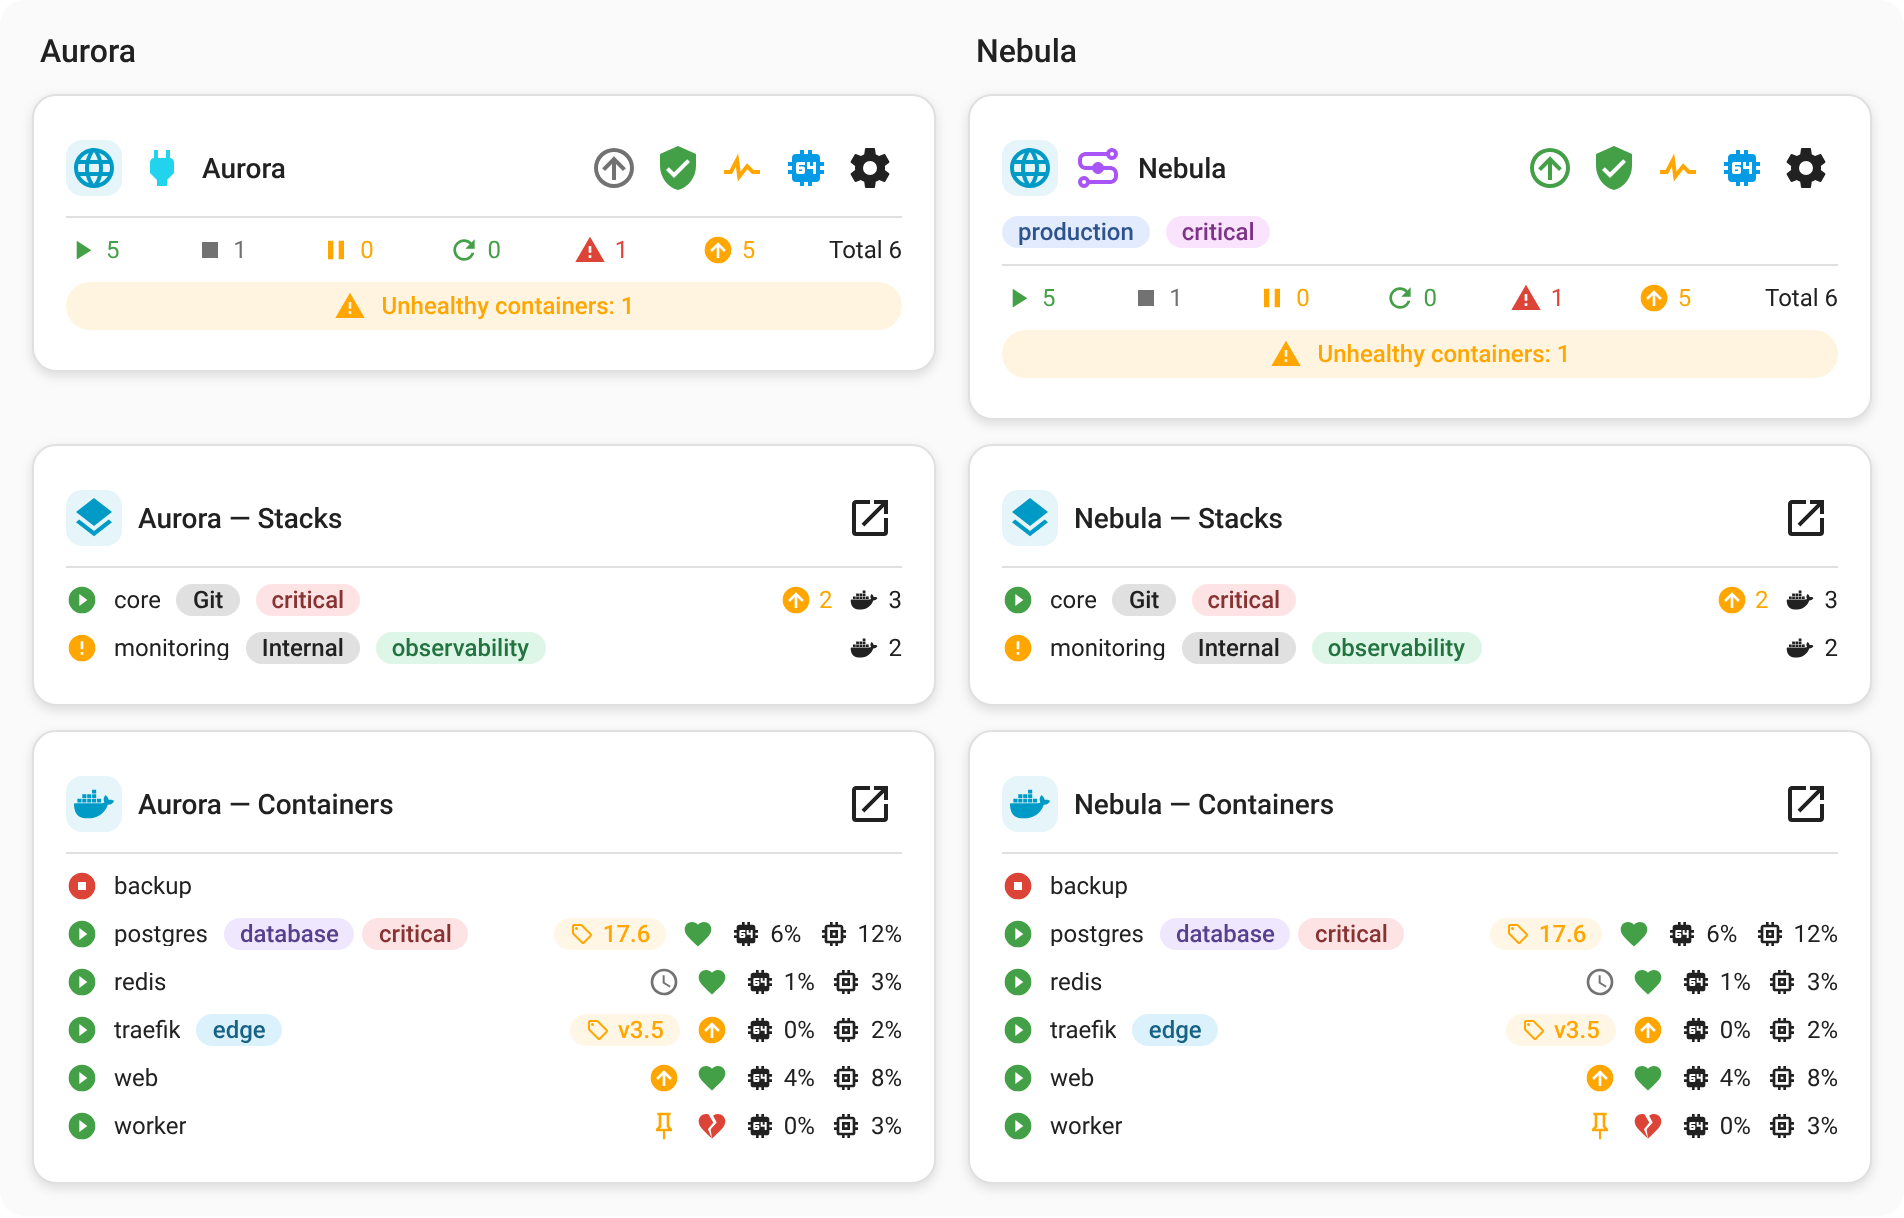
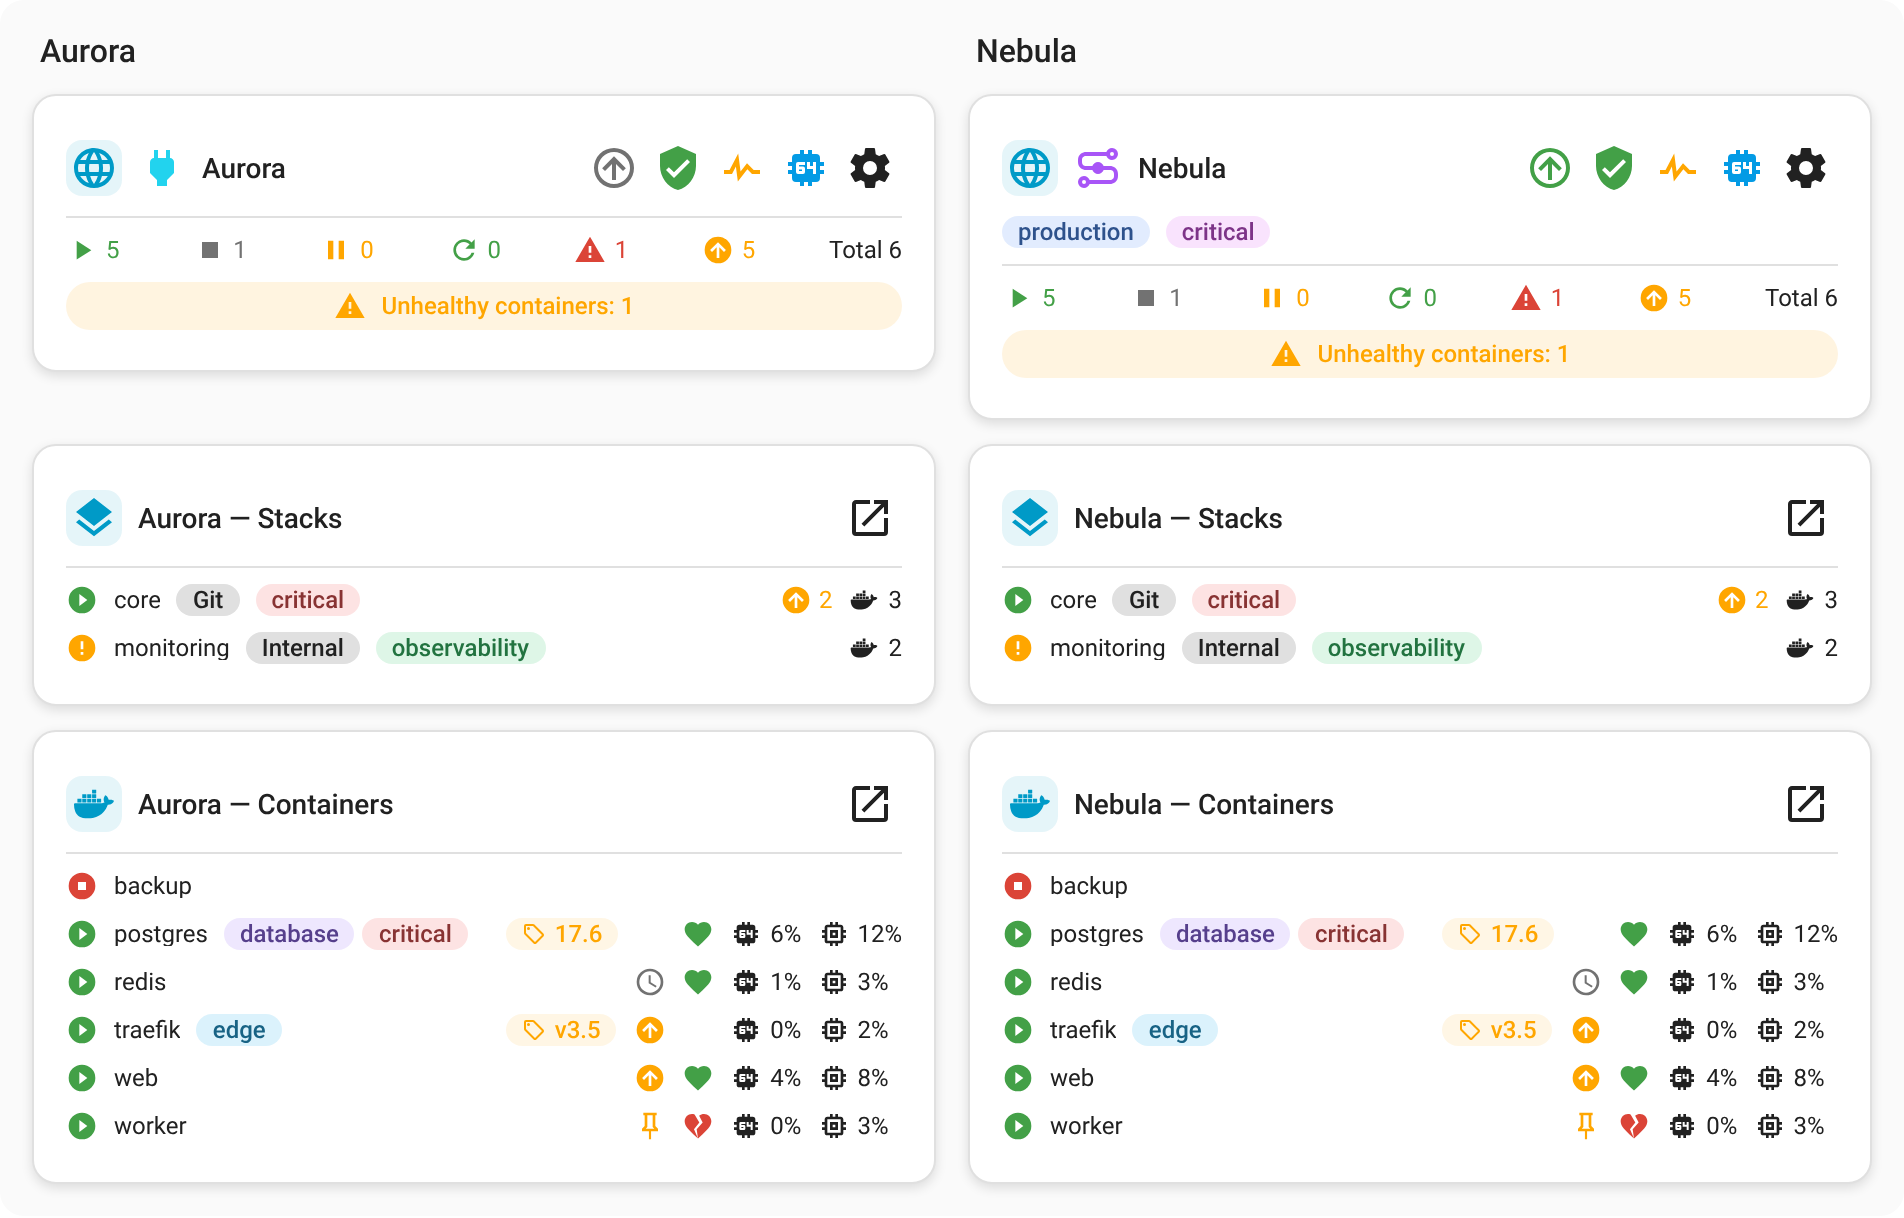
Containers card: row details lined up in columns (trial) (#103)
Row details on the Containers card line up in columns: a CSS subgrid
column for each detail shown that some row has (newer-version pill,
update icon, health, CPU, memory, controls), each as wide as its widest
value, left-aligned so the icons line up. Name, environment and tags
stay on the left. A trial on this one card: merged to `dev` for a test
build (not part of the 2.0.0 release pull request); the backlog says
what to do next either way.

---
_Generated by [Claude
Code](https://claude.ai/code/session_01Y5FKGqp1jA7mdqNGnXYnti)_

Changed region(s): [[0.2479, 0.7488, 0.4648, 0.936], [0.7437, 0.78, 0.9606, 0.936], [0.7437, 0.7488, 0.8367, 0.78]]

diff --git a/src/dockhand-containers-card/card.ts b/src/dockhand-containers-card/card.ts
@@ -127,6 +127,29 @@ export function groupContainerRows(
   return entries.map(([, bucket]) => ({ label: bucket.label, rows: sortContainerRows(bucket.rows, sortBy) }));
 }
 
+/** Right-hand row details in their order on a row; each shown one is a
+ * column. Environment and tags stay with the name, on its left. */
+const COLUMN_ORDER = ['updates', 'health', 'cpu', 'memory'] as const;
+/** Updates take two columns, the newer-version pill and the update icon, so
+ * the icons line up whether or not a row has a pill. */
+type ColumnKey = Exclude<(typeof COLUMN_ORDER)[number], 'updates'> | 'version' | 'update' | 'controls';
+
+function hasDetail(row: ContainerRow, key: Exclude<ColumnKey, 'controls'>): boolean {
+  const found = row.found;
+  switch (key) {
+    case 'version':
+      return Boolean(row.newerVersion);
+    case 'update':
+      return Boolean(row.updateStatus && row.updateStatus.kind !== 'tag');
+    case 'health':
+      return ['healthy', 'unhealthy', 'starting'].includes(found.health?.state.state ?? '');
+    case 'cpu':
+      return numericState(found.cpuPercent?.state.state) !== undefined;
+    case 'memory':
+      return numericState(found.memoryPercent?.state.state) !== undefined;
+  }
+}
+
 export class DockhandContainersCard extends LitElement implements LovelaceCard {
   static styles = cardStyles;
 
@@ -277,13 +300,7 @@ export class DockhandContainersCard extends LitElement implements LovelaceCard {
             ? html`<div class="card-message">${t(this._hass, 'msg_no_containers_yet')}</div>`
             : shown.length === 0
               ? html`<div class="card-message">${t(this._hass, 'msg_no_filter_matches')}</div>`
-              : groups.map(
-                  (group, i) => html`
-                    ${i > 0 ? html`<div class="divider"></div>` : nothing}
-                    ${group.label !== null ? html`<div class="group-header">${group.label}</div>` : nothing}
-                    <div class="list">${group.rows.map((r) => this._renderRow(r))}</div>
-                  `
-                )}
+              : this._renderList(groups)}
           ${renderFilteredNote(this._hass, hidden, this._config.show_filtered_count)}
         </div>
       </ha-card>
@@ -301,7 +318,35 @@ export class DockhandContainersCard extends LitElement implements LovelaceCard {
     return renderActionsColumn(controls ? renderRowControls(this, this._hass, controls, row.name, this._slots) : null);
   }
 
-  private _renderRow(row: ContainerRow): TemplateResult {
+  /** The row details shown, in their order on a row: each is a column of
+   * the list, as wide as its widest value, so the details line up down the
+   * card. A detail that's hidden, or that no row has (stats turned off, no
+   * newer version anywhere), has no column, so no empty space. */
+  private _columns(rows: ContainerRow[]): ColumnKey[] {
+    const visible = new Set(this._config?.visible_badges ?? DEFAULT_CONTAINERS_BADGES);
+    const columns: ColumnKey[] = COLUMN_ORDER.filter((key) => visible.has(key))
+      .flatMap((key) => (key === 'updates' ? (['version', 'update'] as const) : [key]))
+      .filter((key) => rows.some((row) => hasDetail(row, key)));
+    return this._config?.show_controls ? [...columns, 'controls'] : columns;
+  }
+
+  /** One grid for every group, so the columns line up across groups too;
+   * rows take its columns (subgrid), and group headers and dividers span
+   * them. */
+  private _renderList(groups: ReturnType<typeof groupContainerRows>): TemplateResult {
+    const columns = this._columns(groups.flatMap((g) => g.rows));
+    return html`<div class="list aligned" style=${`grid-template-columns: minmax(0, 1fr)${' auto'.repeat(columns.length)}`}>
+      ${groups.map(
+        (group, i) => html`
+          ${i > 0 ? html`<div class="divider"></div>` : nothing}
+          ${group.label !== null ? html`<div class="group-header">${group.label}</div>` : nothing}
+          ${group.rows.map((r) => this._renderRow(r, columns))}
+        `
+      )}
+    </div>`;
+  }
+
+  private _renderRow(row: ContainerRow, columns: ColumnKey[]): TemplateResult {
     const found = row.found;
     const st = found.state!.state.state;
     const stateIcon = CONTAINER_STATE[st] ?? UNKNOWN_CONTAINER_STATE;
@@ -312,46 +357,49 @@ export class DockhandContainersCard extends LitElement implements LovelaceCard {
     const mem = numericState(found.memoryPercent?.state.state);
     const memId = found.memoryPercent?.entityId;
     const id = found.state!.entityId;
+    // Every row has a cell for every column, empty when it has nothing
+    // for it, so the next columns stay lined up.
+    const cell = (key: ColumnKey): TemplateResult => {
+      switch (key) {
+        case 'version':
+          return html`<div class="cell">${row.newerVersion ? renderVersionTagPill(this._hass, row.newerVersion, () => this._moreInfo(row.updateEntityId)) : nothing}</div>`;
+        case 'update':
+          return html`<div class="cell">${row.updateStatus && row.updateStatus.kind !== 'tag' ? this._renderUpdateIcon(row) : nothing}</div>`;
+        case 'health':
+          return html`<div class="cell">
+            ${health === 'healthy' || health === 'unhealthy' || health === 'starting'
+              ? renderIcon({
+                  baseClass: 'row-icon',
+                  icon: HEALTH_ICON[health] ?? 'mdi:heart-outline',
+                  colorClass: HEALTH_STATUS_CLASS[health] as 'ok' | 'warn' | 'error' | undefined,
+                  title: stateLabel(this._hass, 'health', health, found.health?.state),
+                  onClick: () => this._moreInfo(healthId)
+                })
+              : nothing}
+          </div>`;
+        case 'cpu':
+          return html`<div class="cell">
+            ${cpu !== undefined ? renderIcon({ baseClass: 'row-icon', icon: 'mdi:cpu-64-bit', text: formatPercent(cpu, this._hass, 0), onClick: () => this._moreInfo(cpuId) }) : nothing}
+          </div>`;
+        case 'memory':
+          return html`<div class="cell">
+            ${mem !== undefined ? renderIcon({ baseClass: 'row-icon', icon: 'mdi:memory', text: formatPercent(mem, this._hass, 0), onClick: () => this._moreInfo(memId) }) : nothing}
+          </div>`;
+        case 'controls':
+          return this._renderControls(row) as TemplateResult;
+      }
+    };
     const visible = new Set(this._config?.visible_badges ?? DEFAULT_CONTAINERS_BADGES);
 
     return html`
-      <div class="row clickable" @click=${() => this._moreInfo(id)}>
+      <div class="row aligned-row clickable" @click=${() => this._moreInfo(id)}>
         <div class="row-left row-target" tabindex="0" role="button" @keydown=${onKeydownActivate(() => this._moreInfo(id))}>
           <ha-icon class="row-icon ${stateIcon.cls}" icon=${stateIcon.icon} title=${stateLabel(this._hass, 'container_state', st, found.state!.state)}></ha-icon>
           <span class="item-name">${row.name}</span>
           ${visible.has('environment') ? html`<span class="label-pill">${row.environment}</span>` : nothing}
           ${visible.has('tags') ? renderTagPills(found.state!.state) : nothing}
         </div>
-        <div class="row-right">
-          ${row.newerVersion && visible.has('updates') ? renderVersionTagPill(this._hass, row.newerVersion, () => this._moreInfo(row.updateEntityId)) : nothing}
-          ${row.updateStatus && row.updateStatus.kind !== 'tag' && visible.has('updates') ? this._renderUpdateIcon(row) : nothing}
-          ${(health === 'healthy' || health === 'unhealthy' || health === 'starting') && visible.has('health')
-            ? renderIcon({
-                baseClass: 'row-icon',
-                icon: HEALTH_ICON[health] ?? 'mdi:heart-outline',
-                colorClass: HEALTH_STATUS_CLASS[health] as 'ok' | 'warn' | 'error' | undefined,
-                title: stateLabel(this._hass, 'health', health, found.health?.state),
-                onClick: () => this._moreInfo(healthId)
-              })
-            : nothing}
-          ${cpu !== undefined && visible.has('cpu')
-            ? renderIcon({
-                baseClass: 'row-icon',
-                icon: 'mdi:cpu-64-bit',
-                text: formatPercent(cpu, this._hass, 0),
-                onClick: () => this._moreInfo(cpuId)
-              })
-            : nothing}
-          ${mem !== undefined && visible.has('memory')
-            ? renderIcon({
-                baseClass: 'row-icon',
-                icon: 'mdi:memory',
-                text: formatPercent(mem, this._hass, 0),
-                onClick: () => this._moreInfo(memId)
-              })
-            : nothing}
-        </div>
-        ${this._renderControls(row)}
+        ${columns.map(cell)}
       </div>
     `;
   }

diff --git a/src/common/shared-styles.ts b/src/common/shared-styles.ts
@@ -304,7 +304,7 @@ export const sharedStyles = css`
    * wrongly *after* the line (padding comes after border in the box
    * model) on top of .divider's own correct margin, roughly doubling
    * the gap after every divider on the page. */
-  .body > *:not(.section):not(.grid-2):not(.divider):not(.hero-row),
+  .body > *:not(.section):not(.grid-2):not(.divider):not(.hero-row):not(.list),
   .section > *,
   .list > *,
   .grid-2 > * {
@@ -559,22 +559,45 @@ export const sharedStyles = css`
     background: var(--dockhand-status-error-color);
   }
 
-  /* The list mechanism — two shapes, for two genuinely different needs.
-   *
-   * .list: no column alignment across rows (Stacks/Containers, plural,
-   * list cards — each row's own badge count varies, so there's no
-   * consistent set of columns to align in the first place, and — per
-   * direct instruction — for column-aligned lists too (Schedules,
-   * Updates, Recent Events, Top Containers), abandoning subgrid-based
-   * cross-row column alignment for simplicity: rows just group their
-   * own left/right content via .row's own justify-content, rather
-   * than sharing column tracks across the whole list. No box of its
-   * own — its rows become effectively direct children of whatever
-   * actually wraps them (.body/.section), getting the standard
-   * context padding above via the .list > * selector there, same as
-   * any other row would. */
+  /* A list card's rows. .list has no box of its own: its rows are laid out
+   * by .row (name on the left, details on the right) and get the standard
+   * context padding through .list > *. .list.aligned, below, lines the
+   * details up in columns instead. */
   .list {
     display: contents;
+  }
+  /* .list.aligned (the Containers card): the row details on the right line
+   * up in columns down the whole card. The card sets the columns: the name
+   * side, then one per detail shown that some row has, each as wide as its
+   * widest value (auto). Rows take the list's columns (subgrid) and keep a
+   * cell in every column, empty when they have nothing for it; group
+   * headers and dividers span them all. */
+  .list.aligned {
+    display: grid;
+    column-gap: var(--ha-space-2, 8px);
+  }
+  .list.aligned > * {
+    grid-column: 1 / -1;
+  }
+  .list.aligned > .divider {
+    padding: 0;
+  }
+  .list.aligned > .row {
+    display: grid;
+    grid-template-columns: subgrid;
+  }
+  /* The name side fills its column and no more (a flex row's margin-right:
+   * auto for controls, below, would size it to its content here). */
+  .list.aligned > .row > .row-left {
+    margin-right: 0;
+  }
+  /* Left-aligned, so the icons of a column line up. */
+  .list.aligned > .row > .cell {
+    display: flex;
+    align-items: center;
+    justify-content: flex-start;
+    gap: var(--ha-space-2, 8px);
+    line-height: 1;
   }
   /* The large, prominent status text at the top of a single-device card
    * (a container's own state, a stack's own status) — inherits its own

diff --git a/src/dockhand-containers-card/card.dom.test.ts b/src/dockhand-containers-card/card.dom.test.ts
@@ -30,8 +30,10 @@ function hassWithContainer(update: { state: string; latest?: string; newer?: str
 
 const mount = (hass: HomeAssistant, config: Record<string, unknown> = {}) => mountTag<ContainersCardElement>(TAG, { type: 'custom:dockhand-containers-card', ...config }, hass);
 
+/** What the first row shows on its right, in order: the contents of its
+ * column cells. */
 function rightItems(card: ContainersCardElement): Element[] {
-  return [...card.shadowRoot!.querySelector('.row .row-right')!.children];
+  return [...card.shadowRoot!.querySelectorAll('.row .cell')].flatMap((cell) => [...cell.children]);
 }
 
 function updateIcon(card: ContainersCardElement): Element | undefined {
@@ -154,5 +156,23 @@ describe('Containers card on a narrow row', () => {
     narrow = false;
     resize();
     for (const cls of ['compact-version', 'compact-tags', 'no-tags']) expect(row.classList.contains(cls)).toBe(false);
+  });
+});
+
+describe('Containers card aligned columns', () => {
+  it('has a column for each detail shown (updates take two: pill and icon), in order, and a cell for it on every row', async () => {
+    const hass = hassWithContainer({ state: 'on', latest: 'update-pending', newer: '17.6' });
+    const list = async (config: Record<string, unknown>) => (await mount(hass, config)).shadowRoot!.querySelector<HTMLElement>('.list.aligned')!;
+    const all = await list({ show_controls: true });
+    // Its container has a newer version and an update, but no health check or
+    // stats: those columns aren't there.
+    expect(all.style.gridTemplateColumns).toBe('minmax(0px, 1fr) auto auto auto');
+    const row = all.querySelector('.row')!;
+    expect([...row.children].map((c) => c.className)).toEqual(['row-left row-target', 'cell', 'cell', 'row-actions']);
+    // A hidden detail has no column at all, nor one no row has.
+    const some = await list({ visible_badges: ['updates', 'memory'] });
+    expect(some.style.gridTemplateColumns).toBe('minmax(0px, 1fr) auto auto');
+    const none = await list({ visible_badges: ['memory'] });
+    expect(none.style.gridTemplateColumns).toBe('minmax(0px, 1fr)');
   });
 });

diff --git a/src/common/row-controls.dom.test.ts b/src/common/row-controls.dom.test.ts
@@ -60,7 +60,9 @@ describe.each([
     for (const running of [true, false]) {
       const card = await mount(tag, type, hassWithDevice(kind, running), { show_controls: true });
       const column = card.shadowRoot!.querySelector('.row .row-actions')!;
-      expect(column.previousElementSibling?.classList.contains('row-right')).toBe(true);
+      // Last on the row: after its details, or their column cells if any.
+      expect(column.nextElementSibling).toBeNull();
+      expect(column.previousElementSibling?.matches('.row-right, .cell, .row-left')).toBe(true);
       expect(column.children.length).toBe(2);
       card.remove();
     }

diff --git a/docs/backlog.md b/docs/backlog.md
@@ -17,7 +17,7 @@ Ideas and gaps already evaluated and deliberately deferred or rejected, and why 
 
 ## Cross-card
 
-- **Row details lined up in columns across a list card's rows** (considered 2026-11-17; review now and then). Wanted: a column for each detail the user shows, as wide as its widest value, no fixed widths, in every multi-row card (Stacks, Containers, Updates, Schedules, ...). CSS subgrid can do exactly that: the card builds the columns from the details shown, each sized to its widest value. The cost is inherent to lining things up: a row with nothing for a detail (no update pending, no tags) keeps that column's space empty, and a row needs the widest value of every column rather than only its own, so on a narrow card RowFitController hides details sooner than today. Controls (`show_controls`) line up differently, as same-sized icons in fixed 16px slots. Held back for now in favour of today's compact rows; try it on one card (Stacks) if aligned columns become worth that space.
+- **Row details lined up in columns on the other list cards** (Stacks, Updates, Schedules, ...). On trial on the Containers card since 2026-11-17 (`.list.aligned` in `shared-styles.ts`, `_columns()` in its card): a CSS subgrid column per detail shown that some row has, as wide as its widest value, contents left-aligned so icons line up; the name, environment and tags stay in the name's column. The cost: a row with nothing for a detail keeps that cell empty, and every row needs each column's widest value, so on a narrow card RowFitController folds tags sooner. If the owner keeps it, apply it to the other list cards; if not, revert the Containers card commit.
 - **A section strategy per environment** for the Dockhand dashboard (§22): Home Assistant after 2026.8 lets a registered section strategy be picked under "Automatic section", with a preview (`getStubConfig`) and an editor (`getConfigElement`, needed there); 2026.8 has no picker, so it would be YAML-only until the minimum moves. Set aside: with settings it comes close to an Overview card limited to one environment, which already works in any dashboard.
 - **Free layout in the Dockhand dashboard** (dragging its sections and cards around): a strategy writes the layout each time, so that's what **Take control** is for. Its settings cover which sections, their order and their settings.
 

diff --git a/CHANGELOG.md b/CHANGELOG.md
@@ -36,6 +36,7 @@ Dockhand Cards 2.0 goes with the Dockhand integration 2.0, reading its new senso
 
 ### Changed
 
+- **The Containers card lines up its row details in columns** — the newer-version pill, update icon, health, CPU, memory and controls each have a column, as wide as its widest value, so they line up down the card. Only the details shown, and that some row has, get a column. The name, environment and tags stay together on the left.
 - **Container states look the same on every card, as in Dockhand** — the Container card, the Containers card and the Stack card's pills share Dockhand's container list icons and colors: a stopped container is red on the Container card too (it was grey), and a created one is blue with a plus.
 - **Cards keep up on a large Home Assistant.** Home Assistant hands every card a new state whenever anything changes, and the cards searched every entity in Home Assistant for each device they show each time. They now look entities up from an index built once per registry change, and skip re-measuring their rows when nothing on them changed. With about 150 containers and 9,000 entities, the Updates card took half a second per state change and now takes about a millisecond; the Overview card went from over half a second to under 10 ms.
 - **Stack and Container cards: shorter names, controls in the header.** Unnamed, a card is now called "Orion – traefik" rather than its device's "Orion – Stacks – traefik", since the icon already says stack or container (a name you gave the device in Home Assistant still wins), and on the Dockhand dashboard's Stacks and Containers pages just "traefik", since the page names the environment. The start, stop, restart and deploy buttons are icons in the header now, beside the settings link, instead of a row under the status. They're in Dockhand's own order: a stack's deploy, then start, restart, pause and stop. As in Dockhand, a stopped container offers Restart as well as Start, a paused one Resume, and a running one Pause once its **Pause** entity is turned on (it's disabled by default in the integration).
